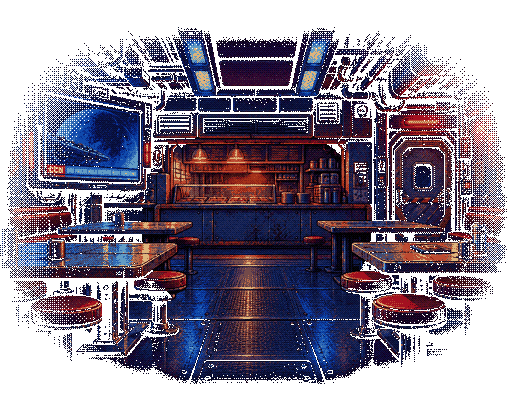
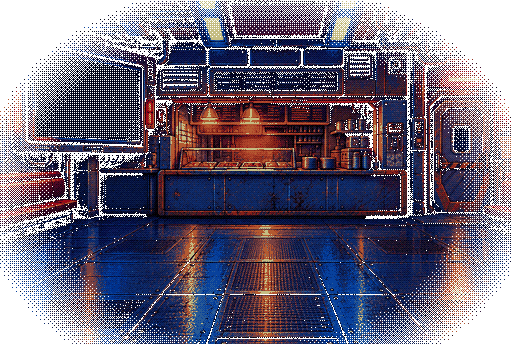
Build 32: cleared mess hall front + new mess back art; tables and stools as standing sprites
Claude-Session: https://claude.ai/code/session_01FHXcHn9PLkvRx1R19boknv

diff --git a/src/room-mess.js b/src/room-mess.js
@@ -1,9 +1,9 @@
 // Mess hall: tables, VENDO-9, the big announcement screen, the captain's
 // memorial plaque, and a sealed hydroponics door with squeaking behind it.
 
-import { makeView, painting, hangPainting, layer, onBackWall, blitBack, treadFloor, panelWall, lampCeiling } from './stagekit.js?v=31';
-import { pixelTexture, RAMPS as R, LIGHT } from './pixelart.js?v=31';
-import { cardMaker, H, wallTex, floorTex, ceilingTex, endWallTex, lampTex } from './roomkit.js?v=31';
+import { makeView, painting, hangPainting, layer, onBackWall, blitBack, treadFloor, panelWall, lampCeiling } from './stagekit.js?v=32';
+import { pixelTexture, RAMPS as R, LIGHT } from './pixelart.js?v=32';
+import { cardMaker, H, wallTex, floorTex, ceilingTex, endWallTex, lampTex } from './roomkit.js?v=32';
 
 export function buildMess(world) {
   const Z = -2.5; // room runs from z +1 (corridor door) to z -6
@@ -192,6 +192,11 @@ export function buildMess(world) {
     wall: panelWall({ paint: R.rust, feature: messFeature }),
   });
 
+  // Painted tables with their stools (big, medium, small).
+  const tableL = pixelTexture(128, 64, () => {}, { key: 'mess-table-l' });
+  const tableM = pixelTexture(96, 64, () => {}, { key: 'mess-table-m' });
+  const tableS = pixelTexture(64, 64, () => {}, { key: 'mess-table-s' });
+
   // ---- front view: tables, VENDO-9, the big screen ----
   const front = makeView(world);
   const frontP = painting({
@@ -208,23 +213,25 @@ export function buildMess(world) {
   const art = frontP.isArt && frontP.box;
   let screenCard;
   if (art) {
-    // Painted mess hall: counter, tables, screen and the hydroponics door are
-    // all in the picture, so its spots are traced on it (uv, v up).
+    // Painted mess hall: the counter, screen and hydroponics door are in the
+    // picture, so their spots are traced on it (uv, v up). Tables, stools and
+    // VENDO-9 stand on the floor as cut-outs.
     hangPainting(front, frontP, [
-      ['hydro', [0.76, 0.42, 0.88, 0.67]],
-      ['poster', [0.685, 0.55, 0.725, 0.64]],
-      ['screen', [0.085, 0.56, 0.28, 0.765]],
-      ['urn', [0.6, 0.51, 0.67, 0.61]],
-      ['counter', [0.3, 0.4, 0.72, 0.62]],
-      ['tables', [0, 0.15, 0.37, 0.46]],
-      ['tables', [0.61, 0.15, 1, 0.47]],
+      ['hydro', [0.84, 0.39, 0.96, 0.76]],
+      ['poster', [0.97, 0.54, 1, 0.61]],
+      ['screen', [0.05, 0.59, 0.285, 0.89]],
+      ['urn', [0.65, 0.51, 0.74, 0.65]],
+      ['counter', [0.31, 0.38, 0.79, 0.7]],
     ]);
-    // DORIS takes over the painted screen for her announcement.
-    const sc = onBackWall(frontP, [0.085, 0.56, 0.28, 0.765]);
+    // The painted screen is blank: the game's screen shows the menu, or DORIS.
+    const sc = onBackWall(frontP, [0.06, 0.6, 0.275, 0.88]);
     screenCard = layer(front, screenTex, sc.w, sc.h, sc.x, sc.y0, sc.z, { spot: 'screen', flat: true });
-    const pl = onBackWall(frontP, [0.305, 0.635, 0.365, 0.685]);
+    const pl = onBackWall(frontP, [0.2, 0.46, 0.28, 0.53]);
     layer(front, plaque, pl.w, pl.h, pl.x, pl.y0, pl.z, { spot: 'plaque', flat: true });
-    layer(front, vendo, 0.95, 1.9, -1.0, 0, 5.3, { spot: 'vendo' });
+    layer(front, vendo, 0.95, 1.9, -1.55, 0, 4.3, { spot: 'vendo' });
+    layer(front, tableL, 2.2, 1.1, 1.5, 0, 3.3, { spot: 'tables' });
+    layer(front, tableM, 1.65, 1.1, -1.9, 0, 3.0, { spot: 'tables' });
+    layer(front, tableS, 1.1, 1.1, 2.7, 0, 2.0, { spot: 'tables' });
   } else {
   hangPainting(front, frontP, [
     ['hydro', frontP.region(-3.5, -3.5, 0, 2.45, 3.8, 5.2)],
@@ -248,8 +255,18 @@ export function buildMess(world) {
     surfaces: messWalls([{ x: 0, z: 2.2, r: 1.4 }]),
     back: (p, rect) => blitBack(p, exit, rect),
   });
-  hangPainting(back, backP, [['messexit', backP.backRegion(0.29, 0.28, 0.71, 1)]]);
-  layer(back, table(777), 2.0, 0.75, -1.6, 0, 2.2, { spot: 'tables' });
+  if (backP.isArt && backP.box) {
+    hangPainting(back, backP, [
+      ['messexit', [0.39, 0.39, 0.61, 0.78]],
+      ['poster', [0.11, 0.55, 0.19, 0.77]],
+      ['urn', [0.22, 0.52, 0.35, 0.7]],
+    ]);
+    layer(back, tableS, 1.1, 1.1, -2.0, 0, 2.2, { spot: 'tables' });
+    layer(back, tableM, 1.65, 1.1, 2.1, 0, 2.6, { spot: 'tables' });
+  } else {
+    hangPainting(back, backP, [['messexit', backP.backRegion(0.29, 0.28, 0.71, 1)]]);
+    layer(back, table(777), 2.0, 0.75, -1.6, 0, 2.2, { spot: 'tables' });
+  }
 
   let t = 0;
   let lastBlink = null;
@@ -268,8 +285,6 @@ export function buildMess(world) {
         screenTex.userData.redraw();
       }
       screenCard.material.uniforms.uTint.value = screen.mode === 'doris' ? 1.1 + 0.15 * Math.sin(t * 6) : 1;
-      // Over painted art, the screen card only appears for DORIS.
-      if (art) screenCard.visible = screen.mode === 'doris';
     },
     onAction(name, arg) {
       if (name === 'screen') {

diff --git a/src/main.js b/src/main.js
@@ -1,17 +1,17 @@
 import * as THREE from 'three';
 import { VRButton } from 'three/addons/webxr/VRButton.js';
-import { VertexPipeline, settings, RES, FOG, setFog } from './vertex.js?v=31';
-import { loadArt } from './pixelart.js?v=31';
-import { createVisorMask } from './visor.js?v=31';
-import { buildCryoBay } from './room-cryo.js?v=31';
-import { buildCorridor } from './room-corridor.js?v=31';
-import { buildMess } from './room-mess.js?v=31';
-import { buildHydro } from './room-hydro.js?v=31';
-import { buildLibrary } from './room-library.js?v=31';
-import { createHud } from './hud.js?v=31';
-import { createUI } from './ui.js?v=31';
+import { VertexPipeline, settings, RES, FOG, setFog } from './vertex.js?v=32';
+import { loadArt } from './pixelart.js?v=32';
+import { createVisorMask } from './visor.js?v=32';
+import { buildCryoBay } from './room-cryo.js?v=32';
+import { buildCorridor } from './room-corridor.js?v=32';
+import { buildMess } from './room-mess.js?v=32';
+import { buildHydro } from './room-hydro.js?v=32';
+import { buildLibrary } from './room-library.js?v=32';
+import { createHud } from './hud.js?v=32';
+import { createUI } from './ui.js?v=32';
 
-const BUILD = 31;
+const BUILD = 32;
 const ANIM_STEP = 1 / 20; // world animation runs at 20 fps
 const PLAY_SPOT = new THREE.Vector2(0, 0); // x, z of the player's fixed spot
 const LEAN_LIMIT = 0.3; // meters before the view fades out

diff --git a/src/ui.js b/src/ui.js
@@ -7,12 +7,12 @@
 // or point + trigger). Desktop: click things; L/T/C/U pick a command; Space advances.
 
 import * as THREE from 'three';
-import { cardMaterial } from './vertex.js?v=31';
-import { pixelTexture, RAMPS as R } from './pixelart.js?v=31';
-import { HOTSPOTS, OPENING, DORIS_TALK, DORIS_STORY, DEFAULTS } from './script.js?v=31';
-import { initAudio, blip, click, confirm, fanfare } from './voice.js?v=31';
-import { createTalkers, mouthFor, TALKER_ASPECT } from './talkers.js?v=31';
-import { slab } from './slab.js?v=31';
+import { cardMaterial } from './vertex.js?v=32';
+import { pixelTexture, RAMPS as R } from './pixelart.js?v=32';
+import { HOTSPOTS, OPENING, DORIS_TALK, DORIS_STORY, DEFAULTS } from './script.js?v=32';
+import { initAudio, blip, click, confirm, fanfare } from './voice.js?v=32';
+import { createTalkers, mouthFor, TALKER_ASPECT } from './talkers.js?v=32';
+import { slab } from './slab.js?v=32';
 
 // The command pad: one command per thumbstick direction.
 // USE also walks through doors (the old MOVE command).

diff --git a/src/room-hydro.js b/src/room-hydro.js
@@ -2,10 +2,10 @@
 // dead, the ship's hamsters have evolved a little (with "help"), and they
 // built a shrine under the lamp. Fix the lamp and Pockets shows himself.
 
-import { makeView, painting, hangPainting, layer, blitBack, treadFloor, panelWall, lampCeiling } from './stagekit.js?v=31';
-import { fbm } from './pixelart.js?v=31';
-import { pixelTexture, RAMPS as R, LIGHT } from './pixelart.js?v=31';
-import { cardMaker, H, wallTex, floorTex, ceilingTex, endWallTex } from './roomkit.js?v=31';
+import { makeView, painting, hangPainting, layer, blitBack, treadFloor, panelWall, lampCeiling } from './stagekit.js?v=32';
+import { fbm } from './pixelart.js?v=32';
+import { pixelTexture, RAMPS as R, LIGHT } from './pixelart.js?v=32';
+import { cardMaker, H, wallTex, floorTex, ceilingTex, endWallTex } from './roomkit.js?v=32';
 
 export function buildHydro(world) {
   const Z = -2.5; // room runs from z +1 (mess door) to z -6

diff --git a/src/room-corridor.js b/src/room-corridor.js
@@ -1,9 +1,9 @@
 // Deck 2 corridor: between Cryo Bay 3 (behind you) and the mess hall (far
 // end). Crew cabins line the walls: Pike, Shay, the captain, and Q. Leeks.
 
-import { makeView, painting, hangPainting, layer, blitBack, treadFloor, panelWall, lampCeiling } from './stagekit.js?v=31';
-import { pixelTexture, RAMPS as R, LIGHT } from './pixelart.js?v=31';
-import { cardMaker, H, wallTex, floorTex, ceilingTex, doorTex, endWallTex, lampTex } from './roomkit.js?v=31';
+import { makeView, painting, hangPainting, layer, blitBack, treadFloor, panelWall, lampCeiling } from './stagekit.js?v=32';
+import { pixelTexture, RAMPS as R, LIGHT } from './pixelart.js?v=32';
+import { cardMaker, H, wallTex, floorTex, ceilingTex, doorTex, endWallTex, lampTex } from './roomkit.js?v=32';
 
 export function buildCorridor(world) {
   const Z = -4; // corridor runs from z +1.5 (cryo) to z -9.5 (mess)

diff --git a/src/room-library.js b/src/room-library.js
@@ -1,9 +1,9 @@
 // The ship's library: shelves of data tapes, a card catalog, a reading desk,
 // and LIBRA, the shy terminal who runs the place (and loves DORIS).
 
-import { makeView, painting, hangPainting, layer, blitBack, treadFloor, panelWall, lampCeiling } from './stagekit.js?v=31';
-import { pixelTexture, RAMPS as R, LIGHT } from './pixelart.js?v=31';
-import { cardMaker, H, wallTex, floorTex, ceilingTex, endWallTex, lampTex } from './roomkit.js?v=31';
+import { makeView, painting, hangPainting, layer, blitBack, treadFloor, panelWall, lampCeiling } from './stagekit.js?v=32';
+import { pixelTexture, RAMPS as R, LIGHT } from './pixelart.js?v=32';
+import { cardMaker, H, wallTex, floorTex, ceilingTex, endWallTex, lampTex } from './roomkit.js?v=32';
 
 export function buildLibrary(world) {
   const Z = -2; // room runs from z +1 (corridor door) to z -5

diff --git a/src/room-cryo.js b/src/room-cryo.js
@@ -5,9 +5,9 @@
 // Swap in hand-drawn art later; positions and sizes can stay.
 
 import * as THREE from 'three';
-import { cardMaterial, FOG, MAX_QUADS } from './vertex.js?v=31';
-import { makeView, painting, hangPainting, layer, blitBack, treadFloor, panelWall, lampCeiling, DP } from './stagekit.js?v=31';
-import { pixelTexture, RAMPS as R, LIGHT, ART } from './pixelart.js?v=31';
+import { cardMaterial, FOG, MAX_QUADS } from './vertex.js?v=32';
+import { makeView, painting, hangPainting, layer, blitBack, treadFloor, panelWall, lampCeiling, DP } from './stagekit.js?v=32';
+import { pixelTexture, RAMPS as R, LIGHT, ART } from './pixelart.js?v=32';
 
 export function buildCryoBay(world) {
   // =====================================================================

diff --git a/src/stagekit.js b/src/stagekit.js
@@ -8,9 +8,9 @@
 // No surrounding geometry. Each room has a front view and a back view.
 
 import * as THREE from 'three';
-import { pixelTexture, RAMPS as R, LIGHT, fbm, ART, ART_META } from './pixelart.js?v=31';
-import { cardMaker } from './roomkit.js?v=31';
-import { cardMaterial } from './vertex.js?v=31';
+import { pixelTexture, RAMPS as R, LIGHT, fbm, ART, ART_META } from './pixelart.js?v=32';
+import { cardMaker } from './roomkit.js?v=32';
+import { cardMaterial } from './vertex.js?v=32';
 
 export const EYE = 1.6; // eye height the paintings are drawn for (m)
 export const DP = 6; // painting distance (m)

diff --git a/src/hud.js b/src/hud.js
@@ -2,9 +2,9 @@
 // toggles. Lives in the anchored world group so it follows every room.
 
 import * as THREE from 'three';
-import { cardMaterial, settings, MAX_QUADS } from './vertex.js?v=31';
-import { pixelTexture, RAMPS as R } from './pixelart.js?v=31';
-import { slab } from './slab.js?v=31';
+import { cardMaterial, settings, MAX_QUADS } from './vertex.js?v=32';
+import { pixelTexture, RAMPS as R } from './pixelart.js?v=32';
+import { slab } from './slab.js?v=32';
 
 export function createHud(parent, build) {
   let quads = 0;

diff --git a/index.html b/index.html
@@ -31,7 +31,7 @@
   // Ask the server for the newest build number, bypassing the cache, and
   // jump to it if this copy is older.
   (async () => {
-    const THIS_BUILD = 31;
+    const THIS_BUILD = 32;
     try {
       const r = await fetch('version.json?t=' + Date.now(), { cache: 'no-store' });
       const { build } = await r.json();
@@ -39,6 +39,6 @@
     } catch (e) {}
   })();
 </script>
-<script type="module" src="src/main.js?v=31"></script>
+<script type="module" src="src/main.js?v=32"></script>
 </body>
 </html>

diff --git a/src/slab.js b/src/slab.js
@@ -3,7 +3,7 @@
 // "light" (top bright, bottom dark), like a chunky early-90s 3D panel.
 
 import * as THREE from 'three';
-import { FOG, fade } from './vertex.js?v=31';
+import { FOG, fade } from './vertex.js?v=32';
 
 export function slab(card, w, h, depth, edge, { round = false } = {}) {
   const geo = round ? new THREE.CylinderGeometry(w / 2, w / 2, depth, 20, 1).rotateX(Math.PI / 2) : new THREE.BoxGeometry(w, h, depth);

diff --git a/src/script.js b/src/script.js
@@ -354,7 +354,7 @@ export const HOTSPOTS = {
   },
   screen: {
     name: 'BIG SCREEN',
-    look: ['A big screen. A news loop older than I am: ORE PRICES HOLD. The board over the counter says today\'s menu is LOAF.'],
+    look: ['A big screen over the counter. Today\'s menu: LOAF.'],
     check: ['The menu hasn\'t changed in four hundred years. Neither has the loaf, I bet.'],
     talk: 'DORIS',
   },
